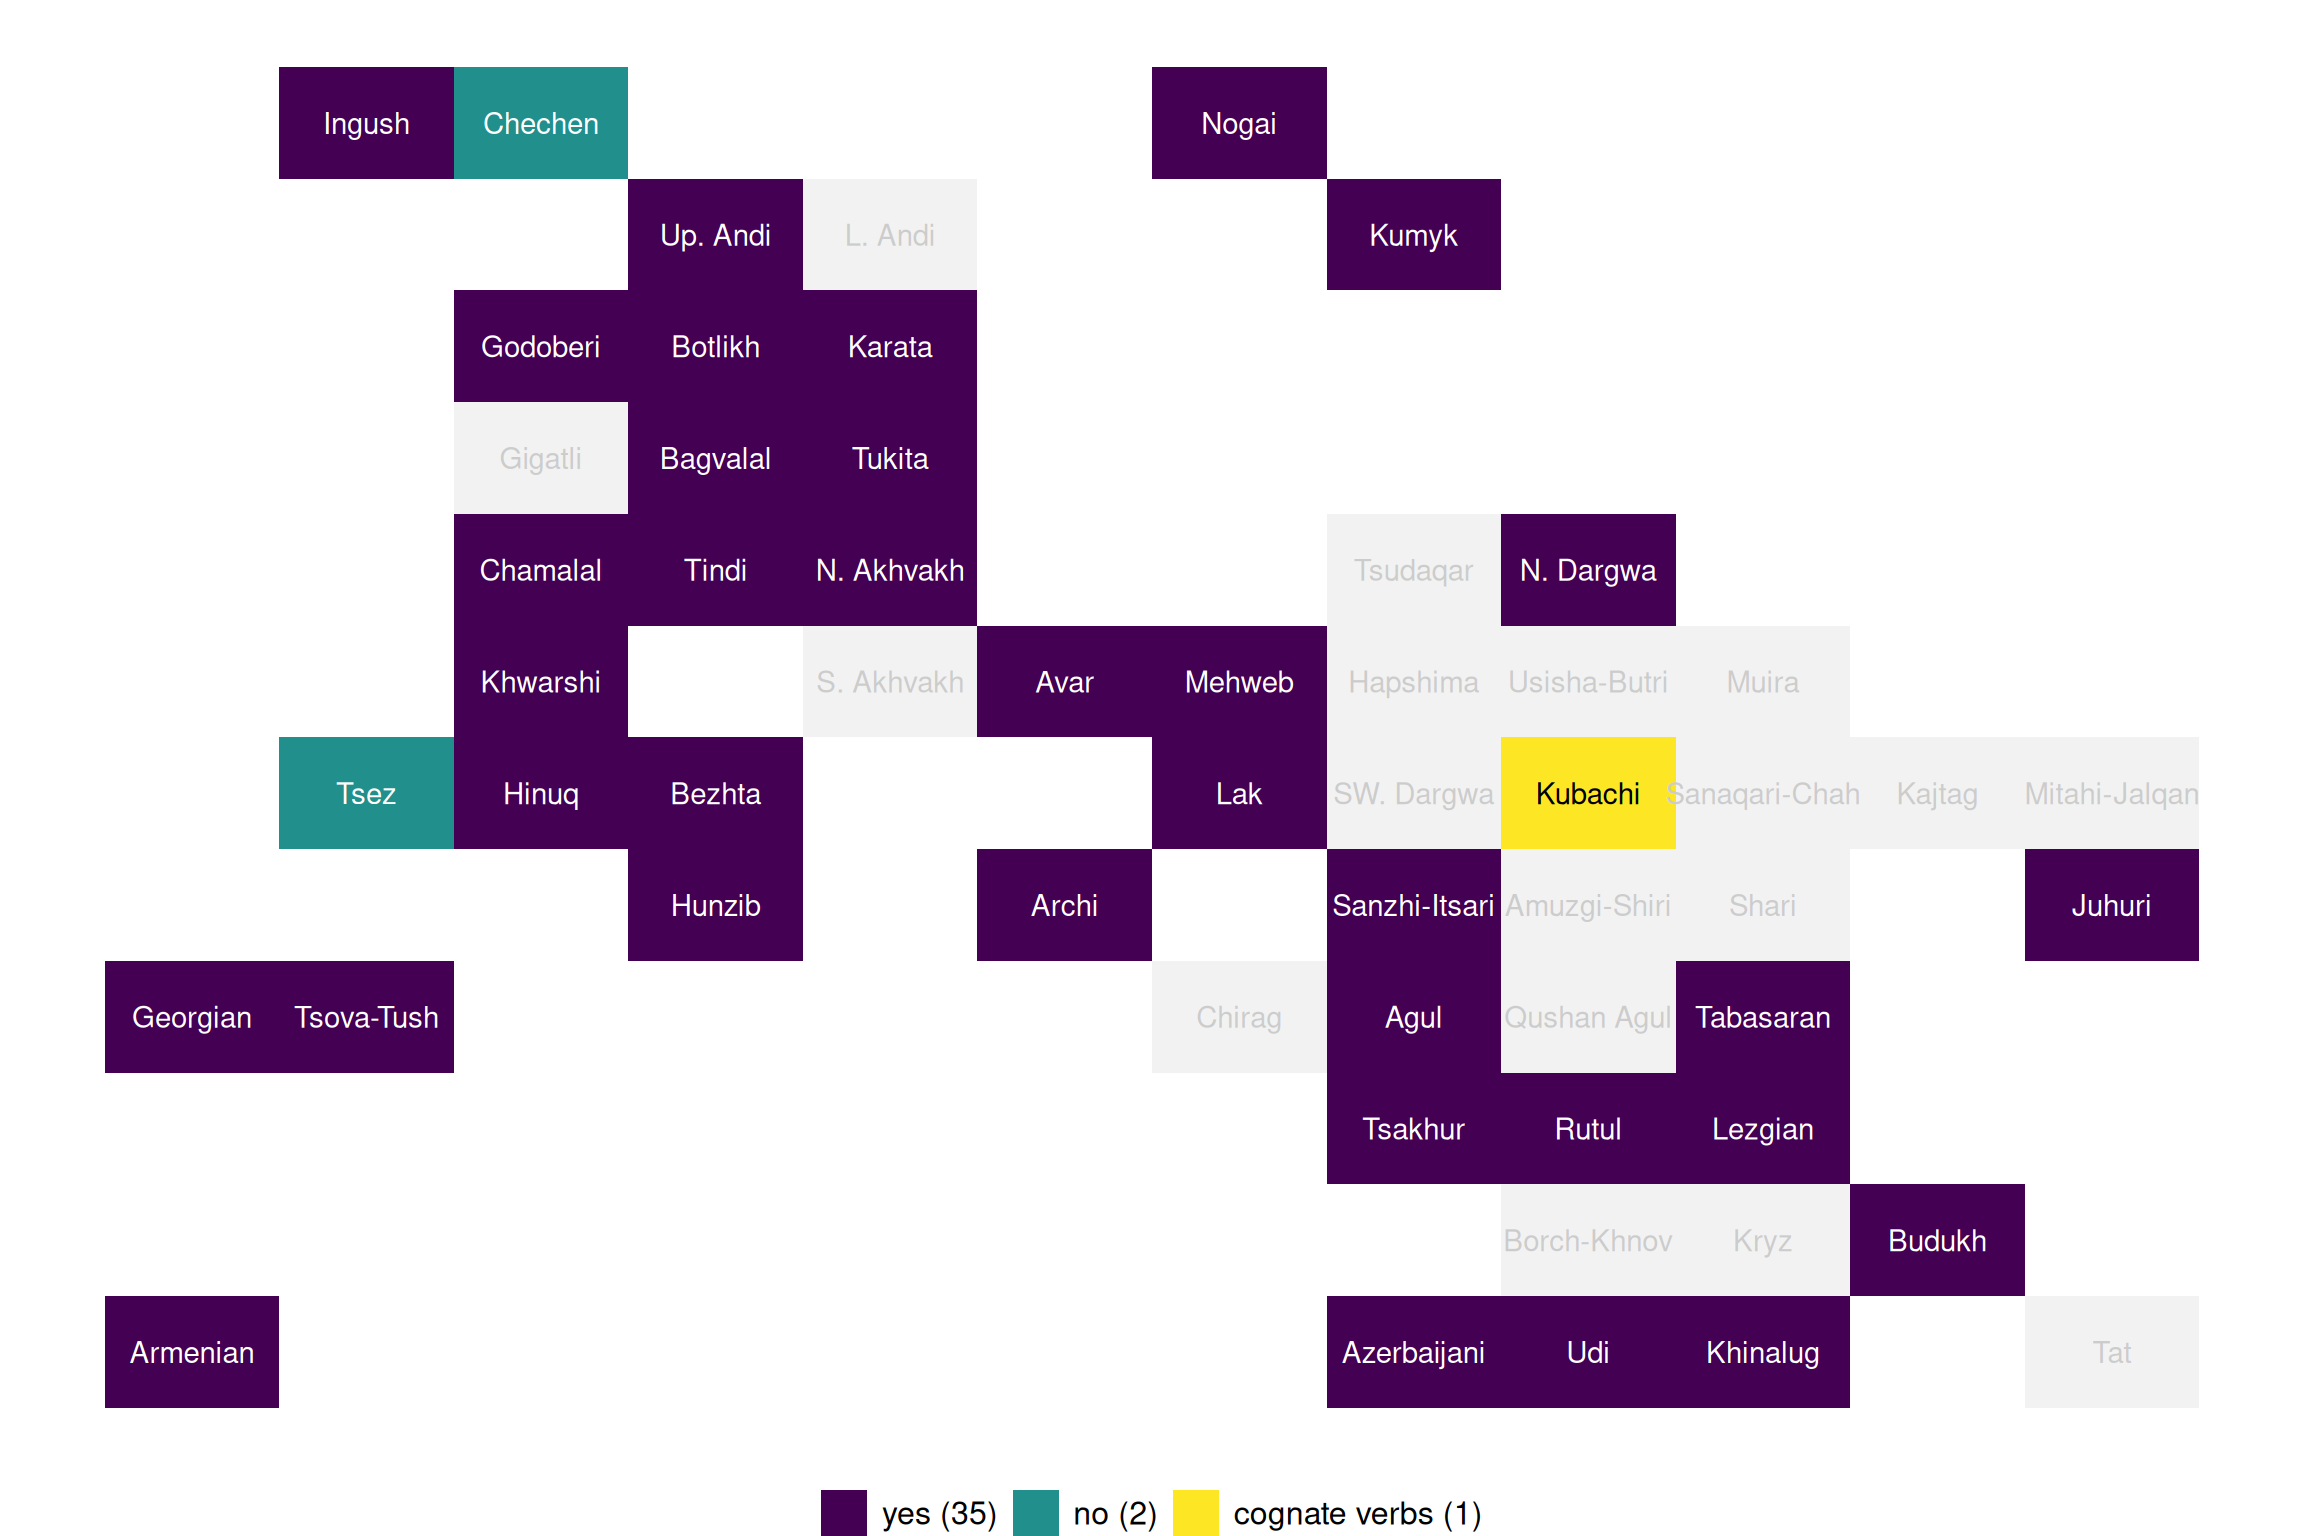
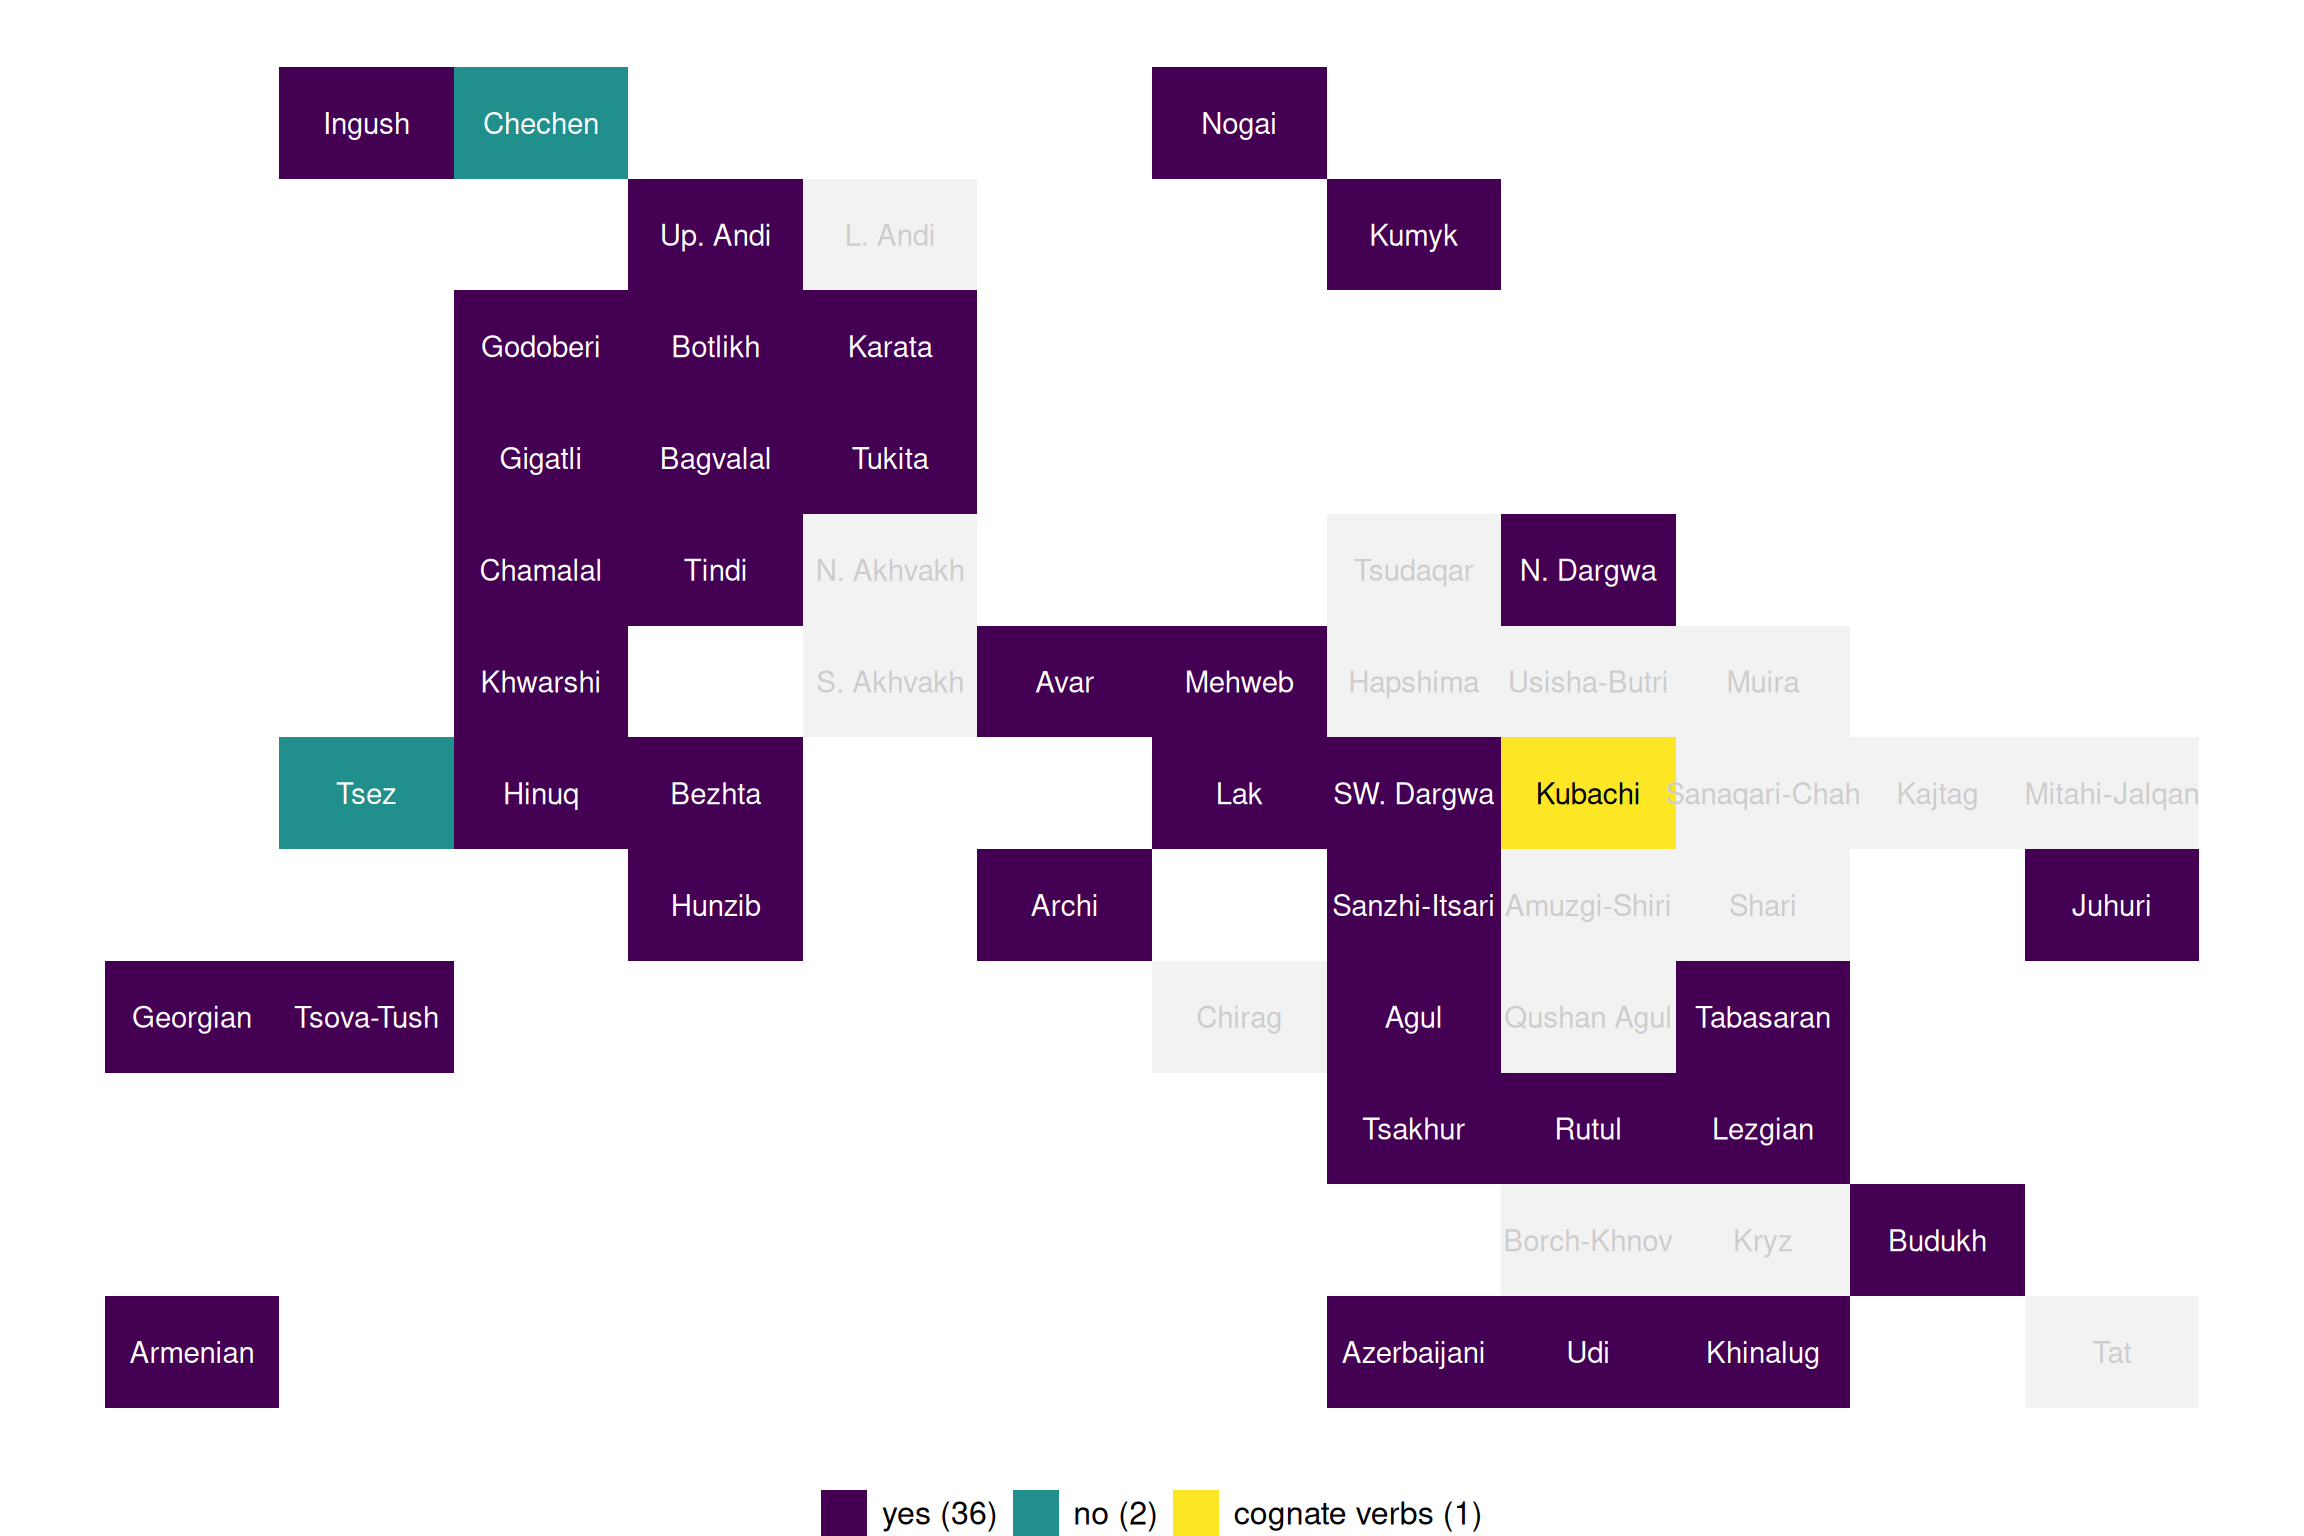
update

Changed region(s): [[0.5625, 0.4688, 0.6562, 0.5625], [0.3438, 0.3125, 0.4375, 0.4062], [0.1875, 0.25, 0.2812, 0.3438]]

diff --git a/docs/072_take_hold_catch.html b/docs/072_take_hold_catch.html
@@ -370,22 +370,22 @@ href="#ref-suvorova2024">Suvorova 2024</a>)</span>, this case of
 colexification is caused by semantic extension. ‘Take’ and ‘catch’
 describe the process of getting something in your hands, the result of
 which corresponds to the concept ‘hold’. In CLICS <span
-class="citation">(<a
-href="#ref-rzymskietal2020"><strong>rzymskietal2020?</strong></a>)</span>,
-the concept ‘take’ is defined as ‘to grasp with the hands’. This verb
-describes the entire instantaneous process, it is a telic verb and can
-be labeled “Achievement” according to Vendler’s classification <span
-class="citation">(<a href="#ref-vendler1957">Vendler 1957</a>)</span>.
-The definition of ‘catch’ in CLICS is ‘to take hold of, especially in
-the hands, so as to seize or restrain or stop the motion of’. This verb
-is also telic, but it is not instantaneous, i.e., it is rather an
-“Accomplishment”. This difference between ‘take’ and ‘catch’ can be
-illustrated by the following example: <em>Take the ball!</em> assumes
-the instancy of action, while <em>Catch the ball!</em> presupposes some
-duration. ‘Hold’ is defined as ‘to grasp or grip (particularly with the
-hand) so that the object does not end up at the surface below’. This
-verb is atelic, it assumes duration of an action and can be labeled a
-“State”. It is the result of a “taking” or “catching” situation.</p>
+class="citation">(<a href="#ref-tjukaetal2026">Tjuka et al.
+2026</a>)</span>, the concept ‘take’ is defined as ‘to grasp with the
+hands’. This verb describes the entire instantaneous process, it is a
+telic verb and can be labeled “Achievement” according to Vendler’s
+classification <span class="citation">(<a
+href="#ref-vendler1957">Vendler 1957</a>)</span>. The definition of
+‘catch’ in CLICS is ‘to take hold of, especially in the hands, so as to
+seize or restrain or stop the motion of’. This verb is also telic, but
+it is not instantaneous, i.e., it is rather an “Accomplishment”. This
+difference between ‘take’ and ‘catch’ can be illustrated by the
+following example: <em>Take the ball!</em> assumes the instancy of
+action, while <em>Catch the ball!</em> presupposes some duration. ‘Hold’
+is defined as ‘to grasp or grip (particularly with the hand) so that the
+object does not end up at the surface below’. This verb is atelic, it
+assumes duration of an action and can be labeled a “State”. It is the
+result of a “taking” or “catching” situation.</p>
 <p>Data for the present chapter were collected mostly from bilingual
 dictionaries, the majority of which pair a source language with Russian.
 Forms of the following Russian verbs were looked for in the
@@ -1161,7 +1161,7 @@ href="https://bivaltyp.info/">https://bivaltyp.info/</a>
 </div>
 <div id="ref-suvorova2024" class="csl-entry">
 Suvorova, Mariia. (2024). <em>Principy koleksifikacii v glagolax
-[principles of colexification in verbs]</em>. Moscow: HSE University.
+[principles of colexification in verbs]</em>. HSE University, Moscow.
 </div>
 <div id="ref-tjukaetal2026" class="csl-entry">
 Tjuka, Annika, Forkel, Robert, Rzymski, Christoph, List, Johann-Mattis.